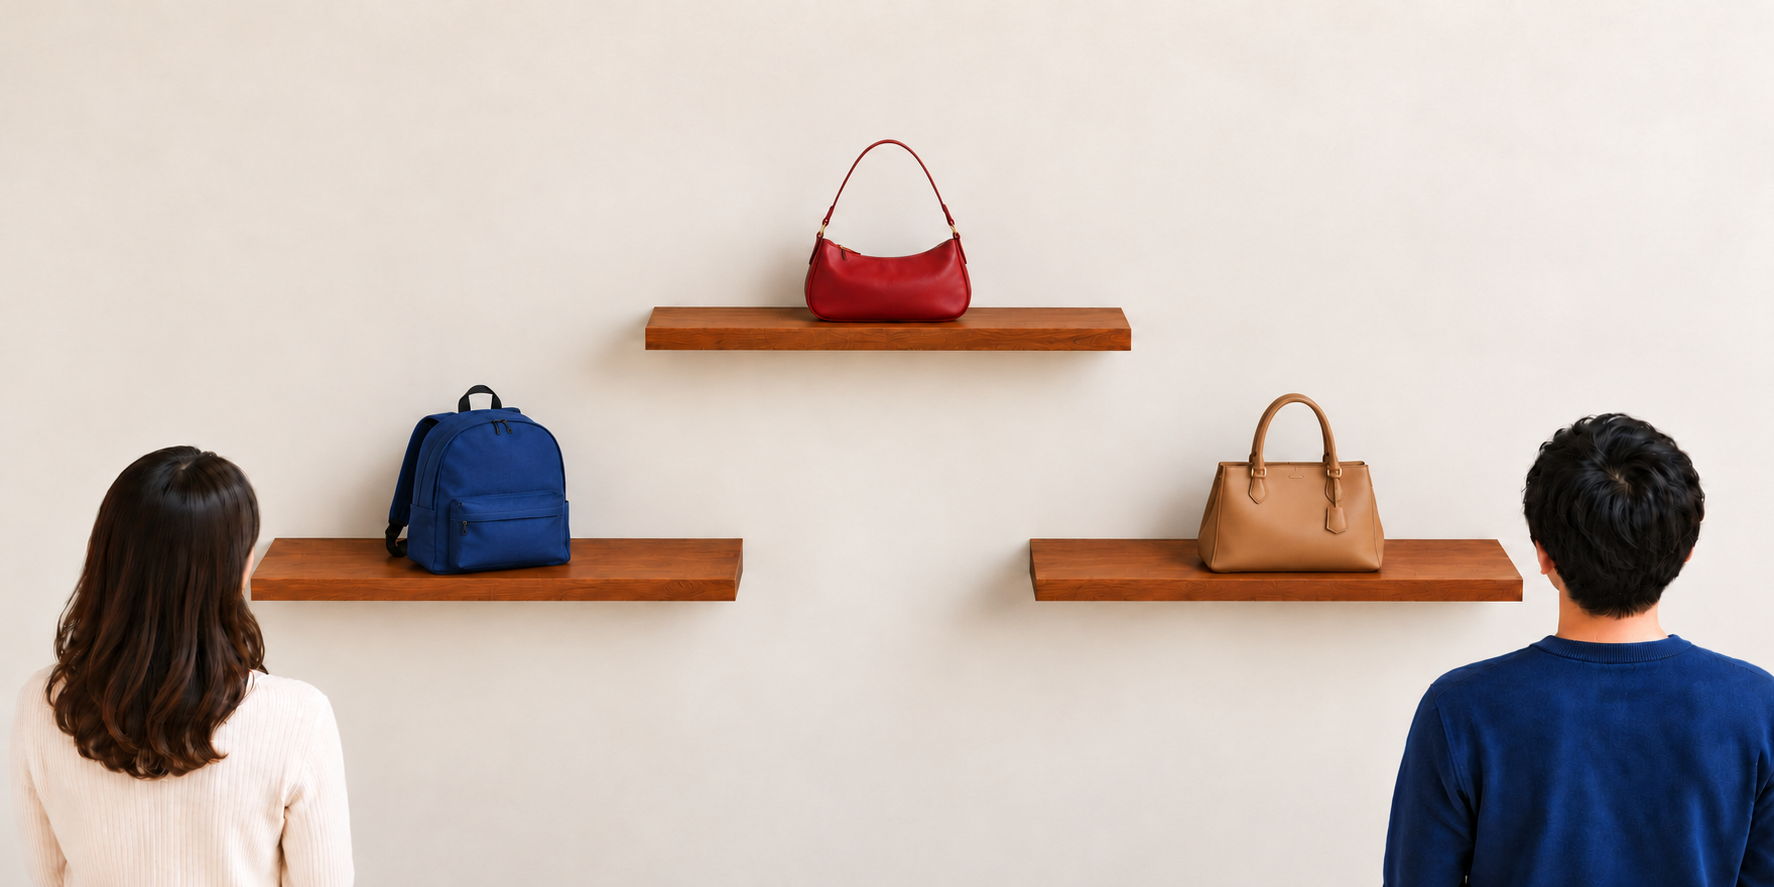
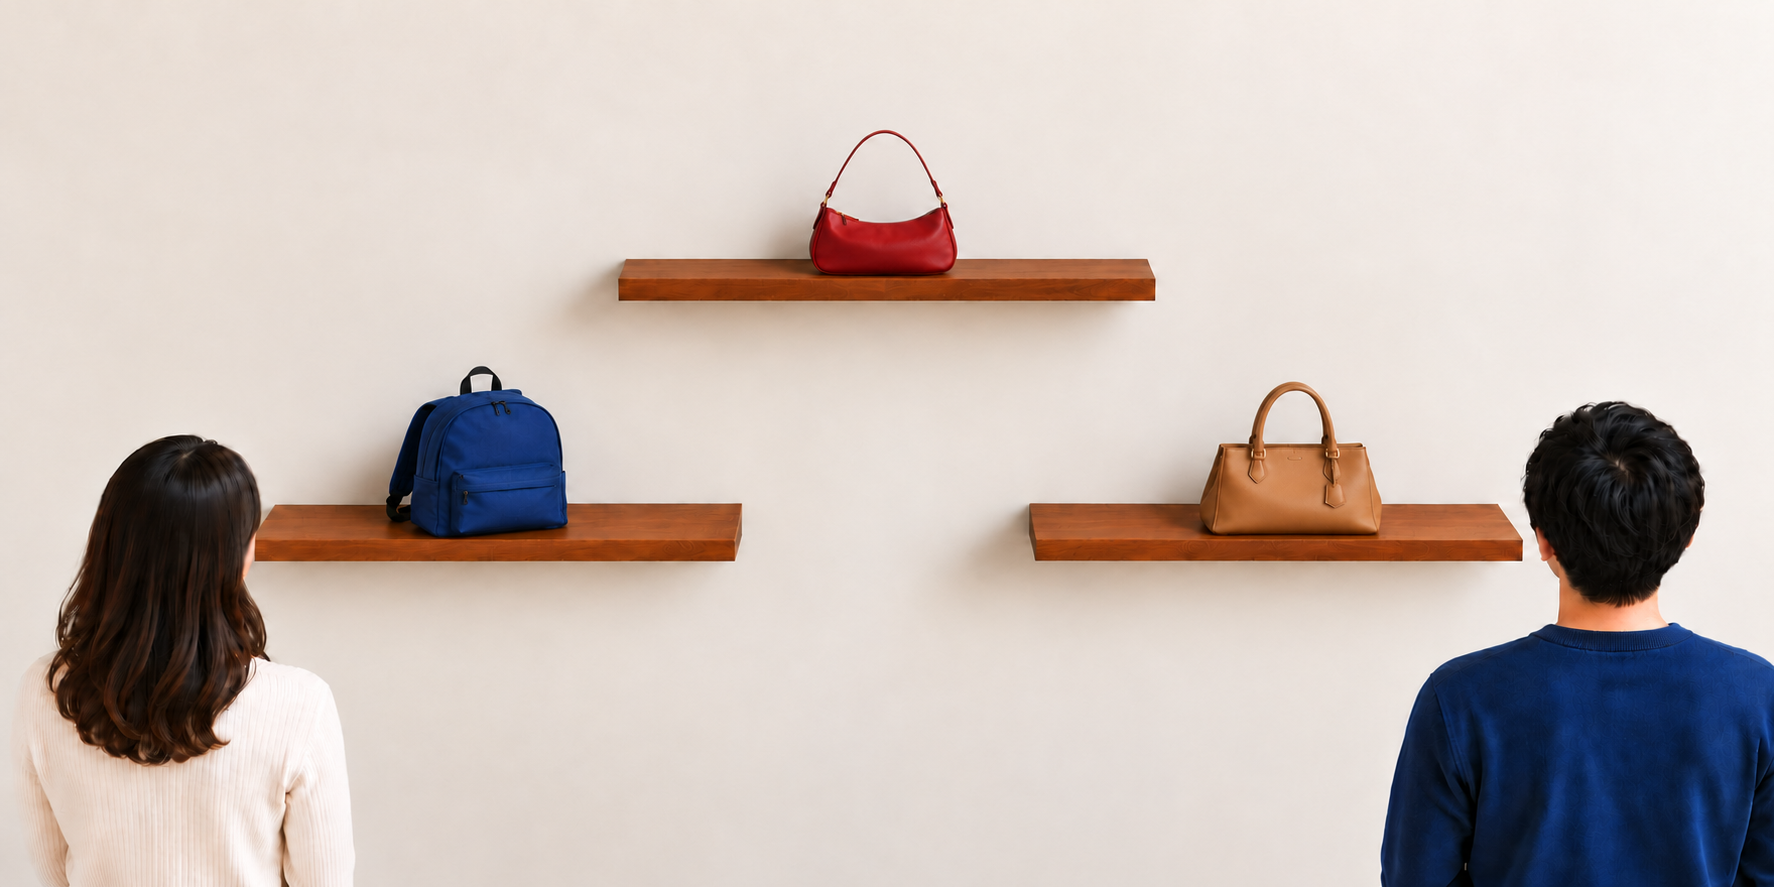
Refine lesson scene captions, shelf alignment and call guidance

diff --git a/practice2-next.js b/practice2-next.js
@@ -1258,8 +1258,8 @@ function practice2ShowNotice(resultSpan, message) {
         // Coordinates refer to the photographed products, not the surrounding shelf.
         const shopGeometry={
             hats:{centers:[[27,54],[74,54],[50,24]],tops:[47,46,17]},
-            bag:{centers:[[27,54],[73,54],[50,26]],tops:[43,44,16]},
-            clock:{centers:[[26.5,55],[73,58],[50,23]],tops:[46,53,14]},
+            bag:{centers:[[27,51],[73,52],[50,23]],tops:[41,43,14.5]},
+            clock:{centers:[[27.5,52],[72.5,54],[50,23]],tops:[44,49,15]},
             fruit:{centers:[[27.5,52],[72.5,53],[50,24]],tops:[46,48,19]},
             onigiri:{centers:[[27.5,54],[72.5,54],[50,25]],tops:[49,49,20]},
             bento:{centers:[[30,57],[73,57],[50,28]],tops:[50,50,19]}
@@ -1392,11 +1392,13 @@ function practice2ShowNotice(resultSpan, message) {
         ];
         return data.map(([hira,kanji,romaji,meaning,periodHira,periodKanji,timeHira,timeKanji,clock],i)=>({hira,kanji,romaji,meaning,periodHira,periodKanji,timeHira,timeKanji,clock,zone:['A','B','far'][i],kind:'city'}));
     };
-    function cityScene(container,{example=false,times=false,objects=cityObjects(),drill=false,indoor=false}={}) {
+    function cityScene(container,{example=false,times=false,objects=cityObjects(),drill=false,indoor=false,call=false}={}) {
         const picture=node('div','p21-drill-picture p2x-picture p23-city-picture'+(example?' p2x-example-picture':''));
         picture.classList.toggle('p23-indoor-picture',indoor);
-        const context=node('p','p21-photo-context p2x-speaker-guide');SpeakerGuide.init(context);
-        if(example){picture.append(context);picture.append(node('p','p23-call-link','📞 A ↔ B'))
+        const context=node('p','p21-photo-context p2x-speaker-guide');
+        if(call){context.dataset.prompt='A is calling B';context.dataset.playingLabel='A is calling B';picture.classList.add('p23-call-example');}
+        SpeakerGuide.init(context);
+        if(example){picture.append(context);if(!call)picture.append(node('p','p23-call-link','📞 A ↔ B'))
         }
         const stage=node('div','p23-city-stage'),photo=node('img','p23-city-photo');
         photo.src=indoor?'assets/practice23-places.png':drill?'assets/practice23-drill-cities.png':'assets/practice23-cities.png';photo.width=2172;photo.height=724;
@@ -1410,7 +1412,6 @@ function practice2ShowNotice(resultSpan, message) {
             if(times)imageHint(clock,{...o,hintText:o.timeHira});else clock.classList.add('p23-period-badge');region.append(clock);stage.append(region);
         }
         picture.append(stage);
-        if(!indoor)picture.append(node('p','p23-time-note','Practice times · not a live clock'));
         container.append(picture);
         function select(speaker,zone){
             picture.dataset.speaker=speaker;picture.dataset.target=zone||'';context.dataset.nextSpeaker=speaker;
@@ -1427,7 +1428,7 @@ function practice2ShowNotice(resultSpan, message) {
         const intro=(o,i)=>statement(i===0?word('わたし','私'):['','Bさん','Cさん'][i],noun(o));
         const addModel=(box,label,text,select,who,o)=>{const p=node('p'),b=listen(()=>{select(who,o.zone);return text();},`${who}🔊きく`,()=>select.announce(who));select.placeButton(b,{zone:who});p.append(node('strong','',label),modelText(text,o));box.append(p);};
         const e1=node('section','example-box p2x-example');e1.append(node('h2','p21-distance-heading','ここ・そこ・あそこ'));
-        const selectEx=cityScene(e1,{example:true}),list=node('div','p21-model-list');
+        const selectEx=cityScene(e1,{example:true,times:true,call:true}),list=node('div','p21-model-list');
         cs.forEach((o,i)=>{const group=node('section','p21-model-group'),line=node('p','p21-model-line');line.dataset.modelSpeaker='A';line.dataset.zone=o.zone;
             const text=()=>intro(o,i)+statement(demonstrative('A',o),period(o));line.append(modelText(()=>intro(o,i),o),node('br'),modelText(()=>statement(demonstrative('A',o),period(o)),o));group.append(line);list.append(group);
             const b=listen(()=>{selectEx('A',o.zone);return text();},'🔊きく',()=>selectEx.announce('A'));b.dataset.speaker='A';b.dataset.zone=o.zone;selectEx.placeButton(b,o);

diff --git a/style.css b/style.css
@@ -2882,3 +2882,33 @@ body[data-practice="2.3"] .tooltip-tip { position: fixed; left: 12px; top: 12px;
 .p2x-reach-foreground[data-zone="A"] { clip-path: polygon(21.5% 58.5%,21.8% 53%,23% 50%,25% 48%,27% 48%,29% 50%,30% 54%,32.4% 58%,32% 60.5%,29% 60.8%,27.5% 59.5%,25.5% 60%,22% 59.5%); }
 .p2x-reach-foreground[data-zone="B"] { clip-path: polygon(66% 57%,69.5% 55%,70% 50%,71% 47%,74% 46%,76% 48%,77.5% 54%,82% 57%,81% 60%,77% 62%,71% 62%,66% 60%); }
 .p2x-reach-foreground[data-zone="far"] { clip-path: polygon(44% 29%,46% 27%,46.5% 20%,48% 16%,50% 18%,52% 16%,54% 19%,54.5% 27%,56% 29%,55% 31%,45% 31%); }
+
+/* Keep the guide text inside its cloud, including dakuten and first/last letters. */
+.p21-which-guide .p21-thought-cloud { inset: -6px -12px; width: calc(100% + 24px); height: calc(100% + 22px); }
+.p21-which-guide { padding: 8px 18px; }
+.p21-distance-area[data-zone="B"] .p21-area-caption { translate: -8px 0; }
+/* Speaker prompts use the same text and padding across the two lesson scenes. */
+.practice21-page .p21-photo-context,
+.p2x-cropped-picture .p2x-scene-canvas .p2x-speaker-guide { font-size: 20px; line-height: 1.2; padding: 4px 8px; }
+@media(min-width:701px) {
+ .p2x-cropped-picture .p2x-audio:not([data-zone="far"]) { top: 36.5% !important; }
+ .p2x-cropped-picture .p2x-audio[data-zone="far"] { left: calc(43.5% - 3px) !important; top: 9% !important; }
+}
+.p2x-cropped-picture .p2x-distance-label[data-zone="far"] { top: 29% !important; left: 74% !important; }
+.p2x-reach[data-reach="far"] { top: 13%; height: 42%; }
+
+.p2x-food-example .p21-which-guide { transform: translate(-50%,-4px); }
+/* Narrow photographs keep the far caption above the right-hand price. */
+@media(max-width:700px) {
+ .p2x-cropped-picture .p2x-distance-label[data-zone="far"] { top: 14% !important; width: 34%; }
+ .p2x-cropped-picture .p2x-distance-label[data-zone="far"] .p21-area-description { white-space: nowrap; }
+ .p2x-reach[data-reach="far"] { left: 35%; top: 10%; width: 56%; height: 40%; }
+}
+
+/* Place labels stay legible over the city photograph. */
+.p23-city-region .p2x-distance-label { width: max-content; max-width: calc(100% - 12px); box-sizing: border-box; padding: 4px 8px; border: 1px solid currentColor; border-radius: 8px; background: #fffdf6f2; text-shadow: none; }
+.p23-city-region[data-sound="こ"] .p2x-distance-label { color: #1d4ed8; }
+.p23-city-region[data-sound="そ"] .p2x-distance-label { color: #15803d; }
+.p23-city-region[data-sound="あ"] .p2x-distance-label { color: #b45309; }
+.p23-call-example > .p2x-speaker-guide { margin-bottom: 8px; }
+.p23-call-example .p23-city-time { bottom: calc(5% + 40px); }

diff --git a/practice2.1.js b/practice2.1.js
@@ -931,11 +931,11 @@ function practice2ShowNotice(resultSpan, message) {
         anchor.addEventListener('pointerleave',close);anchor.addEventListener('blur',close);
     }
 
-    function modelText(getText, object) {
+    function modelText(getText, object, onlyWhich = false) {
         const span = node("span");
         const text = getText();
 
-        const pattern =
+        const pattern = onlyWhich ? /どれ/g :
             /(これ|それ|あれ|どれ|の(?=ほん|本|ペン|かばん|鞄|さいふ|財布|かさ|傘|とけい|時計)|じゃないです|じゃないよ|じゃない|なんですか|何ですか|ですか|だよ|です|だ|はい|いいえ|ううん|うん|は、)/g;
 
         let position = 0;
@@ -1472,7 +1472,7 @@ function practice2ShowNotice(resultSpan, message) {
         const exampleBox=node('section','example-box p21-which-example');
         const phone=item('phone'),exampleObjects=['red','blue','green'].map((colorName,i)=>({...phone,colorName,zone:['A','B','far'][i]}));
         const showExample=laterScene(exampleBox,exampleObjects,true);
-        const mine=exampleObjects[0],yours=exampleObjects[1];
+        const mine=exampleObjects[0],yours=exampleObjects[2];
         const aText=()=>statement(word('わたしの','私の')+noun(mine),pro('A',mine))+whichQuestion(yours);
         const bText=()=>shortAnswer('B',yours);
         const qLine=node('p'),rLine=node('p');
@@ -1481,8 +1481,8 @@ function practice2ShowNotice(resultSpan, message) {
             button.classList.add('p21-which-audio');button.dataset.speaker=speaker;
             exampleBox.querySelector('.p21-example-scene-canvas').append(button);
         }
-        qLine.append(node('strong','','A · Question: '),modelText(aText,phone));
-        rLine.append(node('strong','','B · Response: '),modelText(bText,phone));
+        qLine.append(node('strong','','A · Question: '),modelText(aText,phone,true));
+        rLine.append(node('strong','','B · Response: '),modelText(bText,phone,true));
         exampleBox.append(qLine,rLine);d3.append(exampleBox);showExample('A');
         const panel3=node('div','info-panel info-panel-task1');panel3.append(node('span','info-panel-title','Drill 3: Which one?'),node('span','info-panel-desc','💡Take turns asking. Use これ／それ／あれ for the color shown.'));d3.append(panel3);
         const s3=setButtons(d3,[noun(item('dictionary')),noun(item('wallet'))],'choosingSet');

diff --git a/speaker-guide.js b/speaker-guide.js
@@ -3,14 +3,14 @@ window.SpeakerGuide = Object.freeze({
     init(guide) {
         guide.replaceChildren();
         const prompt=document.createElement('span'),speaker=document.createElement('strong');
-        prompt.textContent='Who is speaking?';speaker.className='p21-current-speaker';speaker.hidden=true;
+        prompt.textContent=guide.dataset.prompt||'Who is speaking?';speaker.className='p21-current-speaker';speaker.hidden=true;
         guide.append(prompt,speaker);guide.setAttribute('role','status');guide.setAttribute('aria-live','polite');
     },
     reset(guide) {
         if(!guide)return;
         guide.getAnimations().forEach(animation=>animation.cancel());
         const prompt=guide.querySelector('span'),label=guide.querySelector('.p21-current-speaker');
-        if(prompt){prompt.textContent='Who is speaking?';prompt.hidden=false;}
+        if(prompt){prompt.textContent=guide.dataset.prompt||'Who is speaking?';prompt.hidden=false;}
         if(label){label.textContent='';label.hidden=true;}
         delete guide.dataset.speaker;guide.classList.remove('is-emphasized');
         guide.closest('.p21-distance-board,.p2x-picture,.p21-drill-picture')?.querySelectorAll('[data-person]').forEach(e=>e.classList.remove('is-speaker'));
@@ -19,7 +19,7 @@ window.SpeakerGuide = Object.freeze({
         if(!guide?.isConnected||!['A','B'].includes(who))return;
         guide.dataset.speaker=who;
         guide.querySelector('span').textContent='';guide.querySelector('span').hidden=true;
-        const label=guide.querySelector('.p21-current-speaker');label.hidden=false;label.textContent=`${who} is speaking`;
+        const label=guide.querySelector('.p21-current-speaker');label.hidden=false;label.textContent=guide.dataset.playingLabel||`${who} is speaking`;
         guide.classList.add('is-emphasized');guide.getAnimations().forEach(animation=>animation.cancel());
         const normal={backgroundColor:'#fff5f5'},active={backgroundColor:'#fecaca'};
         const reduced=matchMedia('(prefers-reduced-motion: reduce)').matches;

diff --git a/docs/HANDOVER.md b/docs/HANDOVER.md
@@ -3,6 +3,8 @@
 最終更新日：2026-10-28
 
 ## 現在のリレー状態（2026-10-28／Europe/Vienna）
+- 追加指示：2.3 E1はA is calling B（再生時も固定文言、点滅は維持）を画像直前へ仮配置。Practice times注意文を撤去、時刻を表示して音声ボタンの上に置く。場所の音説明を白寄りの角丸背景＋領域対応色へ。位置の最終決定は実機確認後。
+- 今回開始main dfb688d／work、同期・クリーン確認。2.1 E1そ説明8px左、E2ど雲の余裕拡大・B対象を奥のスマホへ変更し「あれです」・金色はどれだけ。2.2 E3ど雲も拡大、Whoを両ページ20pxへ、E1各音声とあ説明の配置調整。帽子を原型に時計/カバン写真の上段棚を同幅・同高さへ統一し、値札/ホバー座標を合わせた。2.1は792件、2.2は404件、2.3は236件、案内129件、間隔56件合格。600/1440px描画確認。ユーザー実機未確認。
 - 今回開始時main ab98715／work、クリーン・同期確認。2.1 E2のA/B音声を写真内の人物近くへ、ど雲を不透明な薄赤＋濃赤文字/枠へ。Example→Drillの適用漏れを全11ページ点検、2.1 E2・1.1の25px・7.3の25pxを共通24px、1.1次セクションは40pxへ。2.2の6写真を実際の壁が続くよう編集、時計上段棚を帽子に近い高さへ、金額を商品直上3pxアンカーへ。E1こ/そ説明は棚直下、B音声を帽子の左へ。果物だけの可変上部トリミングを撤去し全Example可視枠2:0.94で統一。棚幅の一括短縮（1〜2割案）は意見提示のみで未実施。自動検証：2.1 792件、2.2 404件、2.3 236件、話者案内124件、全ページ間隔/図枠52件、TTS22件、1.1は20件合格。600/1440px描画確認済み。利用枠取得不可・既存確認待ち。ユーザー実機未確認。
 - 今回開始時main 46472a6／work、GitHub同期・クリーン確認。再生終了後のWho復帰を共通化。2.1 E2案内を画像内左上・どを中央・丸をA方向、上5％をカット。D3のど撤去、青財布4px左。2.2 E1は近い音声/値札/領域/文字を元配置へ戻し、遠い音声だけ左位置を保ち上へ。Who1行。白帯・上への人工余白を撤去し、果物だけ不要な既存壁をトリミング。Ex3のどを棚と下枠の中央へ。追加指示で腕時計③の銀色アナログ/壁時計①の木枠多色目盛りを参考に時計素材を生成し差し替え。2.1は792件、2.2は404件、2.3は236件、TTS22件合格。話者/配置の追加124件も合格。実機未確認。帽子の壁延長は未実施。
 - 担当Codex／ルール2026-10-25.2。今回の開始時main 285467b／work。保存先main。

diff --git a/docs/UI_LAYOUT_SPEC.md b/docs/UI_LAYOUT_SPEC.md
@@ -227,3 +227,11 @@ L1・L2ページはHiragana初期表示。練習2のWith漢字は参考漢字表
 - 2.2の6写真は自然な壁を含めて上部を編集する。白い帯・正方向のキャンバス移動で余白を作らない。時計の上段棚は帽子とほぼ同じ高さへ戻す。棚幅の一括短縮は提案段階で未実施。
 - 2.2 E1/E2/E3は同じ幅・可視縦横比2:0.94。2:1の原画座標を保ち下6％を隠す。果物だけの上部切り詰めを廃止。値札は写真別の商品上端に3pxの間隔で固定し、写真自体を切り詰めない。上端の余裕は自然な壁とWho/音声の配置に必要な範囲で確保する。
 - 2.2 E1こ/そ説明は下段棚のすぐ下。そ側音声は帽子の左端に沿わせる。700px以下は既存の図下配置を維持する。
+
+### 文字の収まりと話者案内サイズ（2026-10-28追補）
+- 2.1 E1のそ側説明は従来位置から8px左へ。ど案内は2.1 E2と2.2 E3とも文字外側に雲の余裕を設け、濁点と英語の端を枠内に収める。
+- 2.1 E2はBの所有する対象を奥のスマホとし、B返答は「あれです」。このExampleの金色強調は「どれ」だけ。他の文法要素は通常色・通常太さ。
+- 2.1/2.2のWho案内は20px・行高1.2・上下4px左右8pxで統一する。Playingの点滅と終了時の問い復帰は維持。
+- 2.2 E1は近い2組の音声を棚から少し下へ離し、遠い組は対象の左側で下げて近づける。あ説明は右下へ、全文が色領域内に収まるよう領域も下へ広げる。時計写真の中央棚は帽子写真の棚幅へ合わせる。
+
+- 2.3 E1の案内は「A is calling B」に固定（再生点滅は維持）。位置は仮に画像直前。「Practice times · not a live clock」は撤去し、E1時刻を図内で音声ボタンの上へ表示。こ/そ/あ説明は白寄り背景の角丸枠、各領域と同色系の文字・枠で表示する。

diff --git a/docs/PRACTICE22_23_SPEC.md b/docs/PRACTICE22_23_SPEC.md
@@ -112,3 +112,7 @@
 - 写真6種の上部は実際の壁が続く画像とし、HTMLの白帯で補わない。中央棚の一括短縮は意見提示のみで保留。時計の上段棚は帽子に近い高さへ復帰し、上下段が近すぎる配置を解消。
 - E1/E2/E3の可視枠は同一幅・2:0.94。商品アンカーに値札を3px離して置く。時計の金額は対象時計の真上。こ/そは下段棚直下、そ音声は帽子の左端へ寄せる。
 - Exampleから対応Drillは全ページ共通24px、次セクション40px（UI_LAYOUT_SPEC）。
+
+- 2026-10-28追補：2.2 Whoは2.1と同じ20px。E1あ説明を領域内の右下へ、音声位置を微調整。E3ど雲の枠内余裕を拡大。時計上段棚幅を帽子へ統一。
+
+- 2.3 E1は「A is calling B」を仮に図直前へ。従来の時刻注意文は撤去しE1は時刻自体を表示する。こ/そ/あ説明に白寄りの角丸背景と領域対応色を付ける。

diff --git a/docs/PROJECT_SPEC.md b/docs/PROJECT_SPEC.md
@@ -1036,3 +1036,5 @@ Voice変更時の旧モデル曲線消去は実装済み。モデル文変更時
 
 ### 2026-10-28 Example表示の補足
 - Example→Drillの24px／次セクション40pxを全ページ共通変数で適用。2.1 E2は図内人物近くのA/B音声と不透明な「ど」吹き出し。2.2は壁が自然に続く6写真、3つのExampleの可視画像サイズを統一。中央棚の幅短縮は未確定。詳細はUI_LAYOUT_SPECの最新節を参照。
+
+- 2026-10-28追補：2.1 E2返答は奥のスマホを指す「あれです」、強調はどれのみ。2.1/2.2 Whoは20px統一。2.3 E1はA is calling Bの仮配置と時刻表示、時刻注意文撤去、領域説明に白寄り角丸背景。UI_LAYOUT_SPEC最新節を参照。
